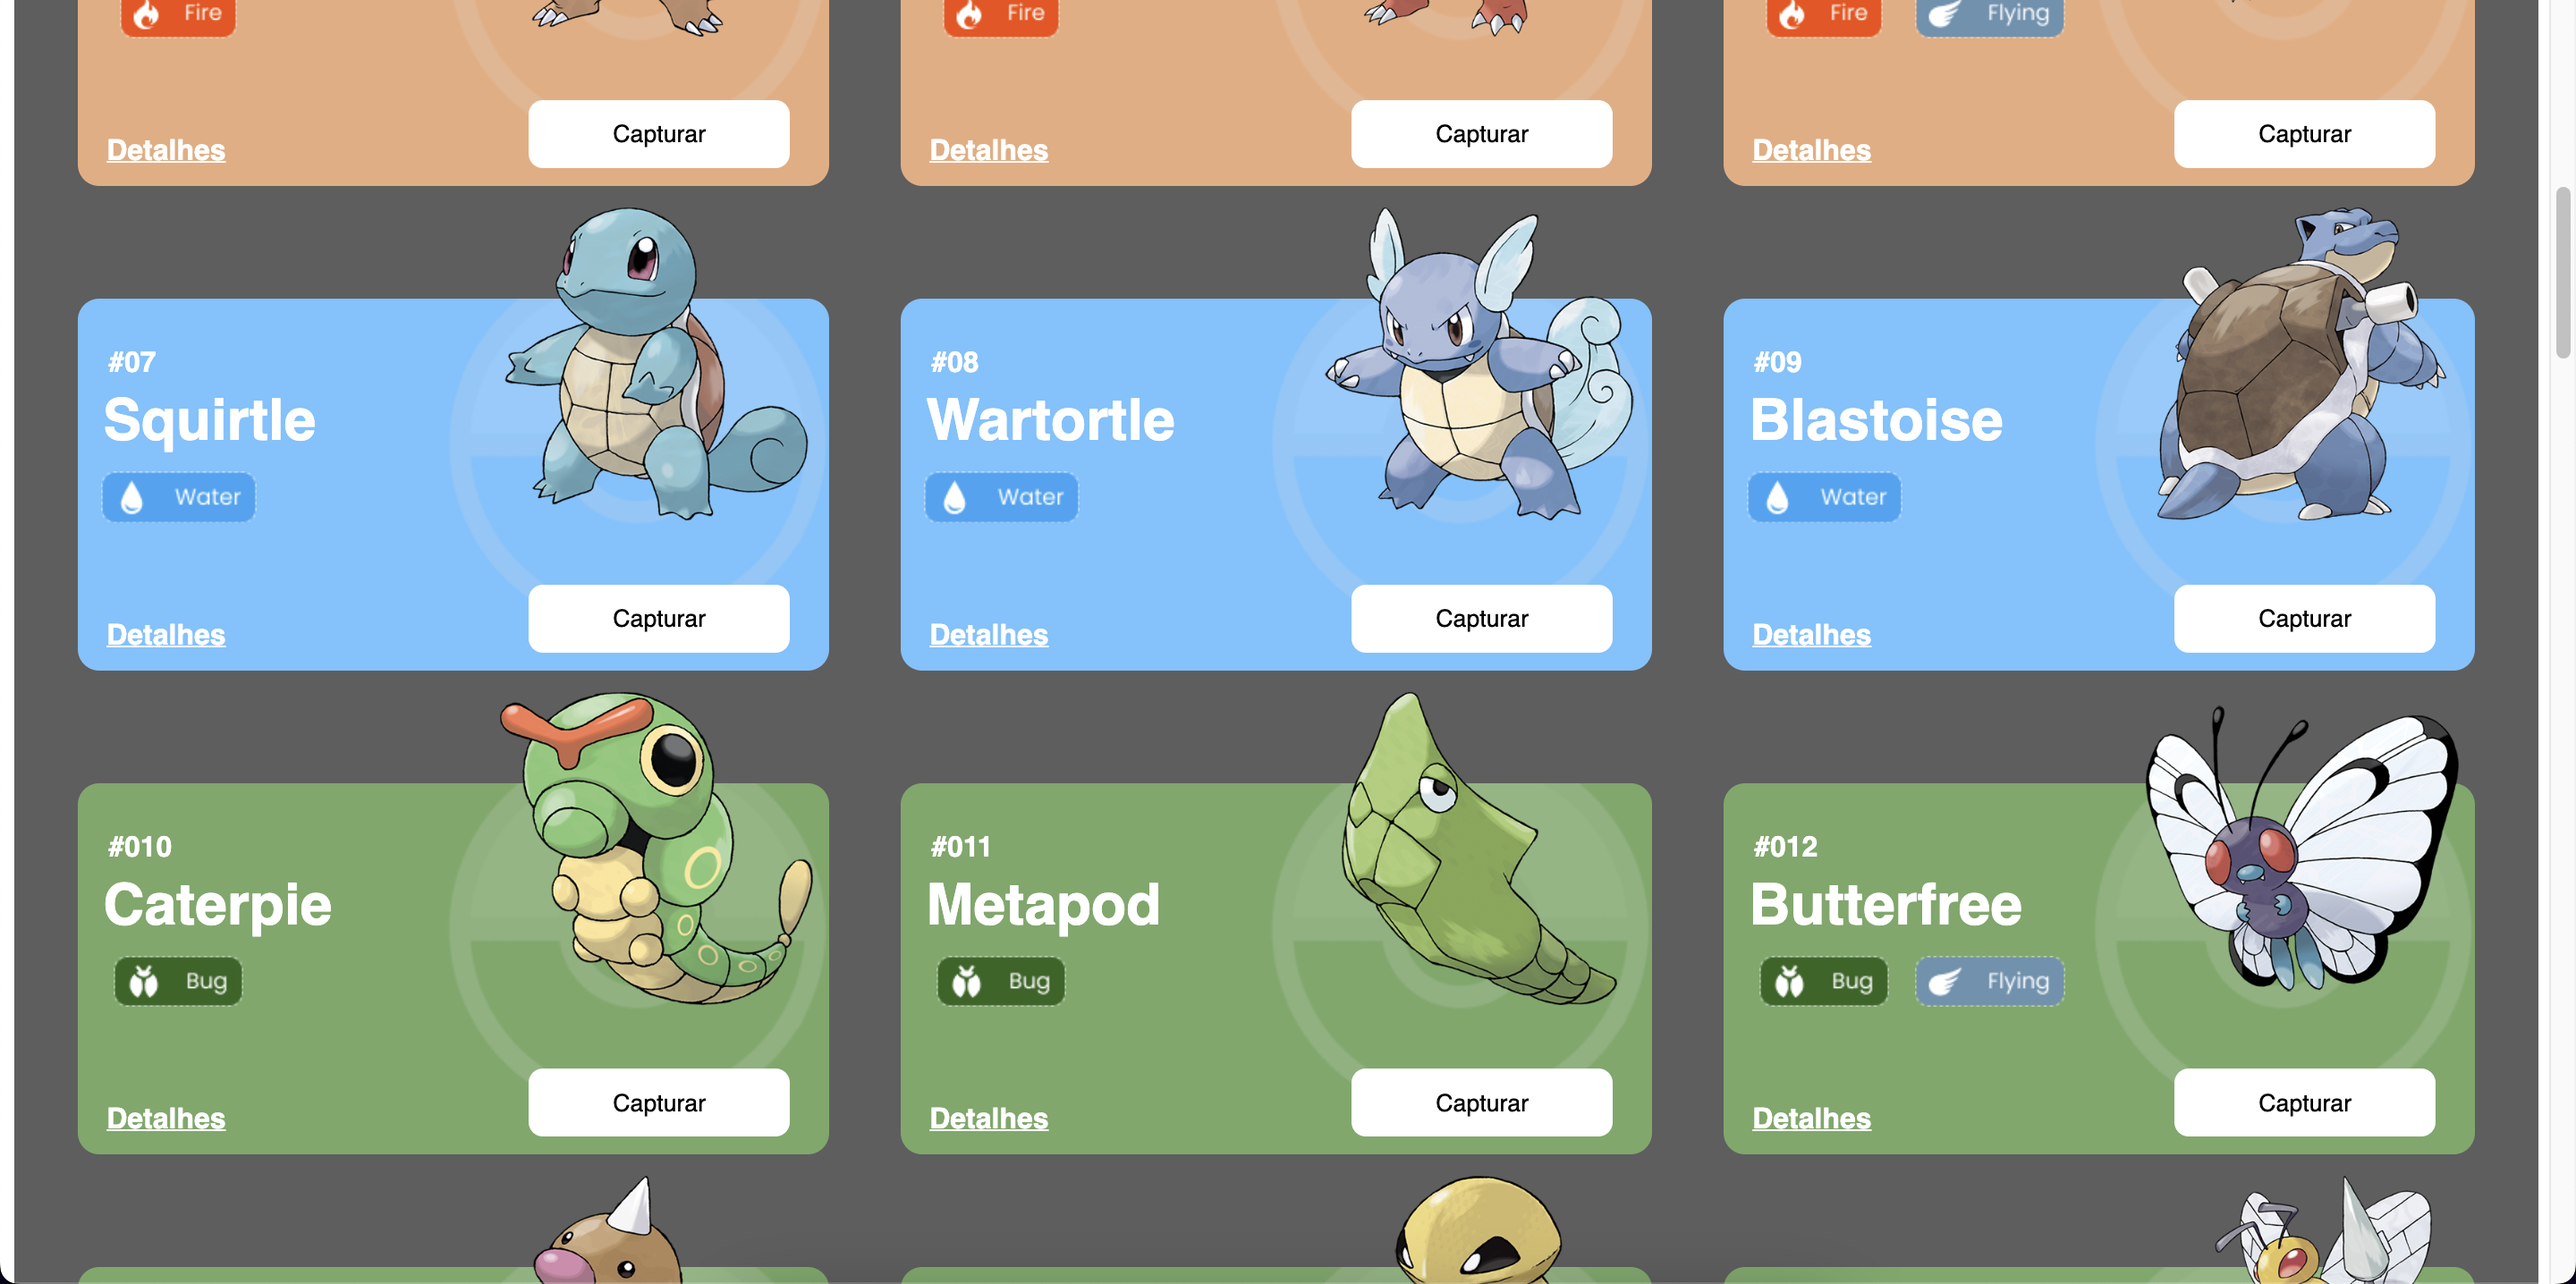
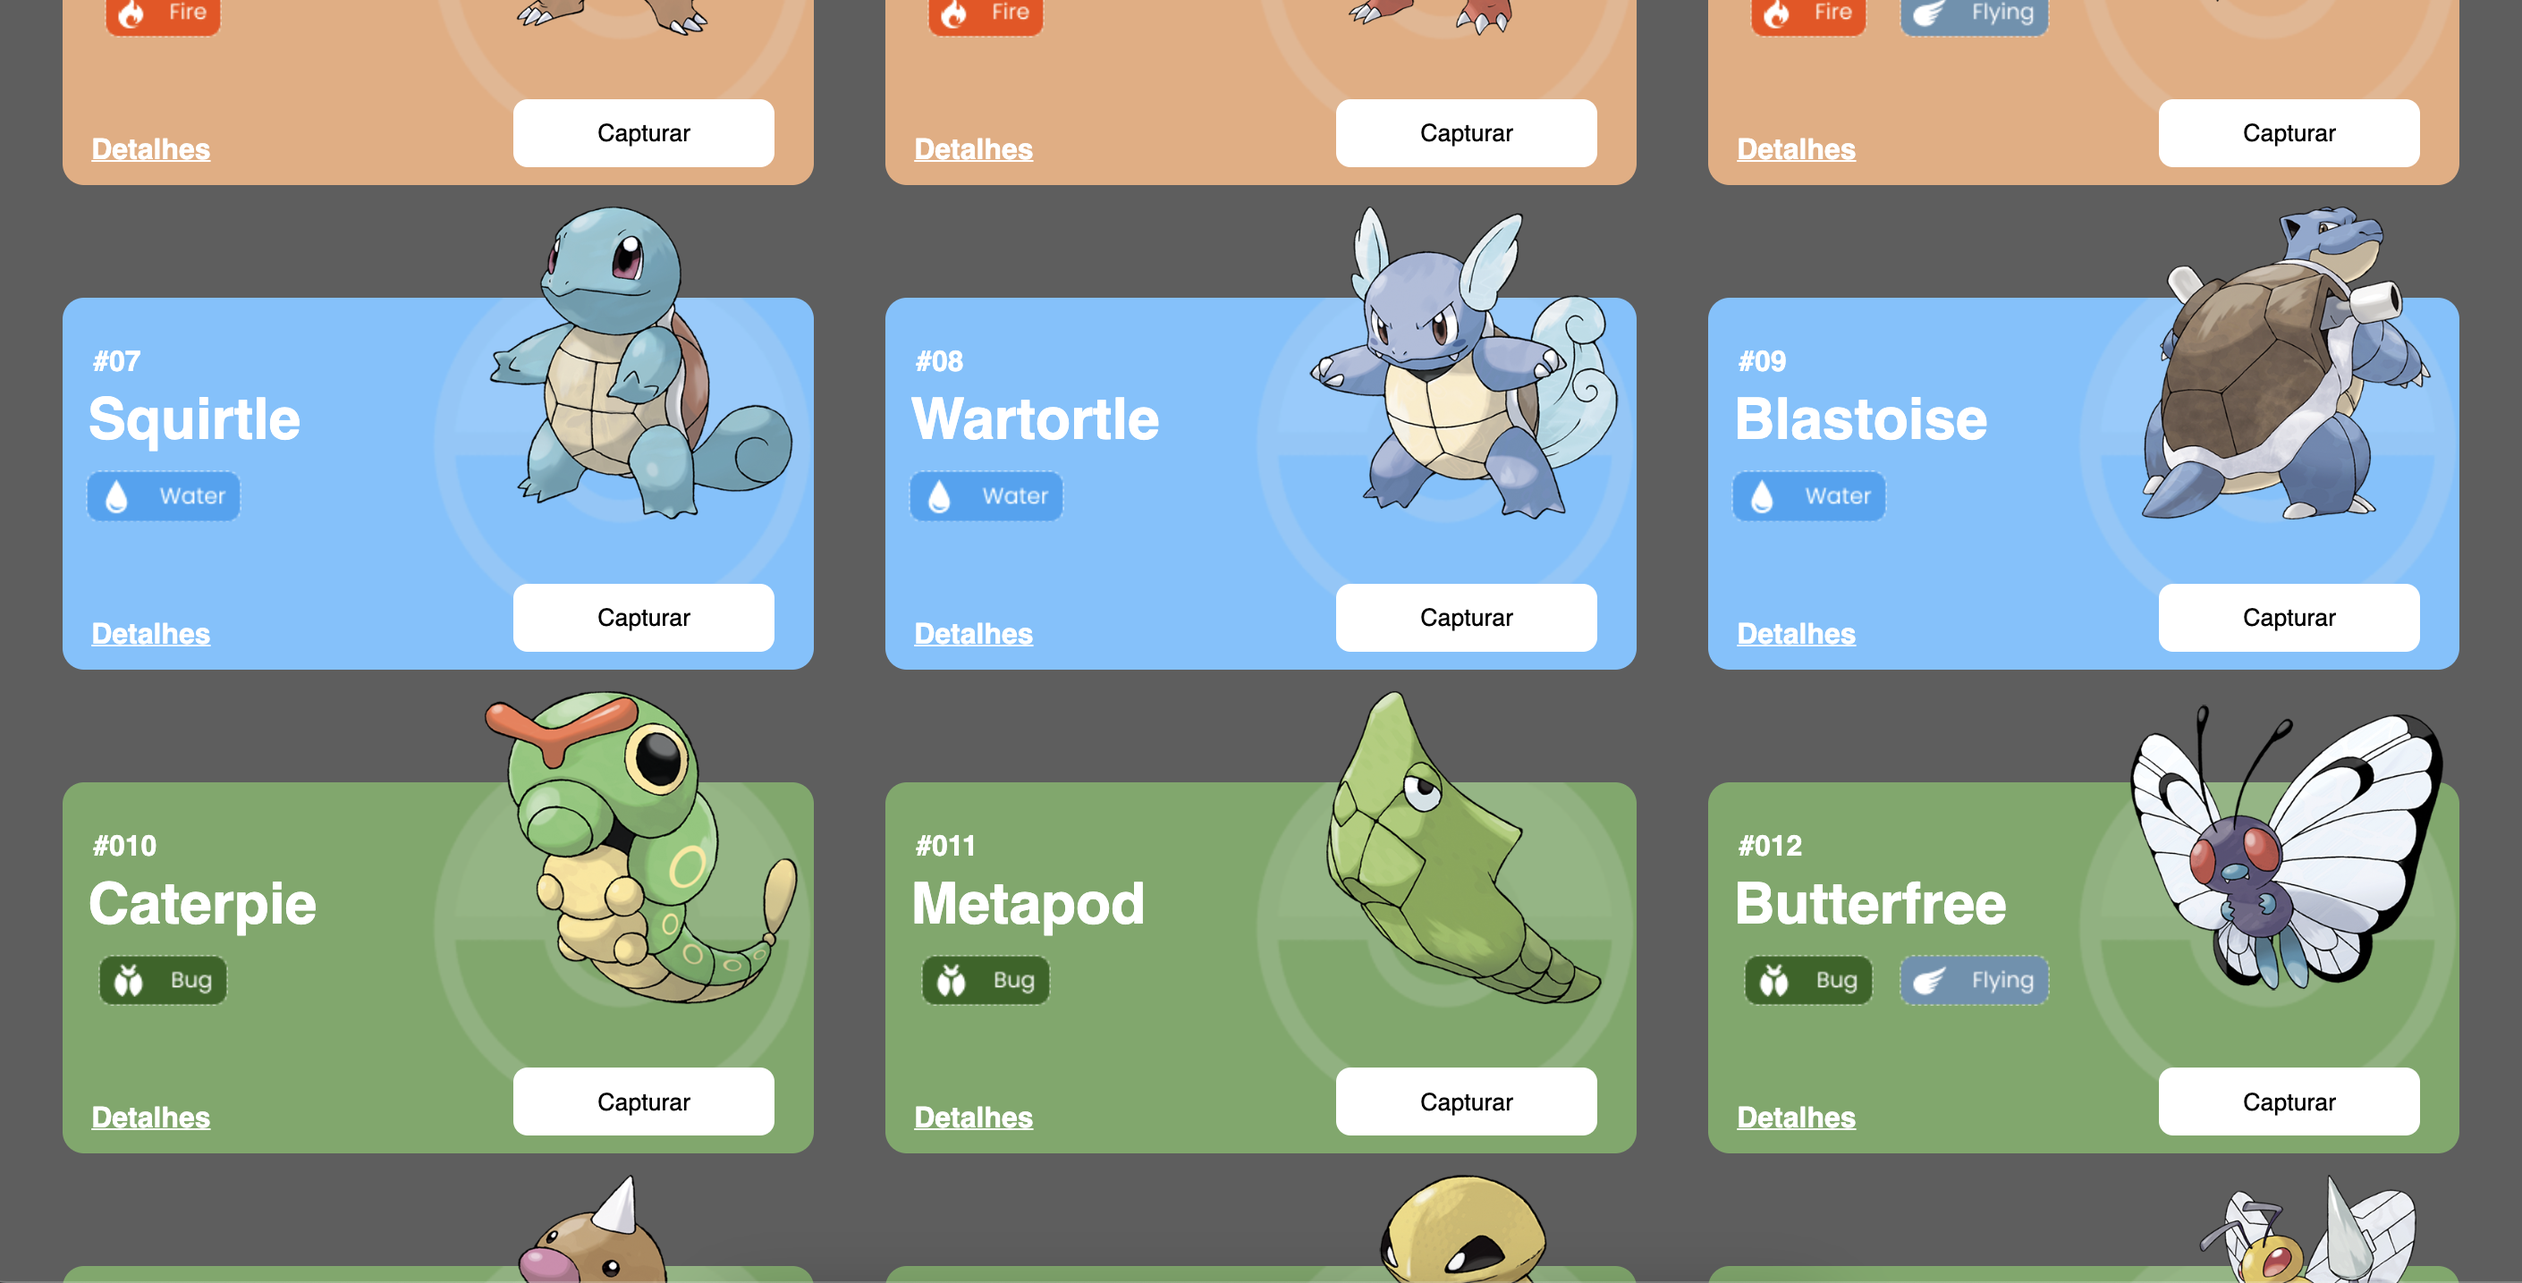
Update prints

diff --git a/pokedex/src/Components/PokemonCard/styled.js b/pokedex/src/Components/PokemonCard/styled.js
@@ -6,6 +6,17 @@ import flyingImage from '../../assets/pokemon-types/flying.png';
 import waterImage from '../../assets/pokemon-types/water.png';
 import bugImage from '../../assets/pokemon-types/bug.png';
 import normalImage from '../../assets/pokemon-types/normal.png';
+import eletricImage from '../../assets/pokemon-types/electric.png'
+import darkImage from '../../assets/pokemon-types/dark.png'
+import dragonImage from '../../assets/pokemon-types/dragon.png'
+import fairyImage from '../../assets/pokemon-types/fairy.png'
+import fightingImage from '../../assets/pokemon-types/fighting.png'
+import ghostImage from '../../assets/pokemon-types/ghost.png'
+import groundImage from '../../assets/pokemon-types/ground.png'
+import iceImage from '../../assets/pokemon-types/ice.png'
+import psychicImage from '../../assets/pokemon-types/psychic.png'
+import rockImage from '../../assets/pokemon-types/rock.png'
+import steelImage from '../../assets/pokemon-types/water.png'
 
 const typeBackgrounds = {
   grass: `url(${grassImage})`,
@@ -15,7 +26,19 @@ const typeBackgrounds = {
   water: `url(${waterImage})`,
   bug: `url(${bugImage})`,
   normal: `url(${normalImage})`,
+  eletric: `url(${eletricImage})`,
+  dark: `url(${darkImage})`,
+  dragon: `url(${dragonImage})`,
+  fairy: `url(${fairyImage})`,
+  fighting: `url(${fightingImage})`,
+  ghost: `url(${ghostImage})`,
+  ground: `url(${groundImage})`,
+  ice: `url(${iceImage})`,
+  psychic: `url(${psychicImage})`,
+  rock: `url(${rockImage})`,
+  steel: `url(${steelImage})`,
 };
+
 
 
 export const Container = styled.div`

diff --git a/pokedex/src/Pages/PokedexPage/styled.js b/pokedex/src/Pages/PokedexPage/styled.js
@@ -4,7 +4,7 @@ export const ContainerPokedex = styled.section`
   display: flex;
   flex-direction: column; 
   background-color: rgb(94, 94, 94);
-  min-height: 100vh; 
+  min-height: 100vh;
 `;
 
 export const TextHome = styled.h1`

diff --git a/pokedex/src/Pages/PokemonsListPage/styled.js b/pokedex/src/Pages/PokemonsListPage/styled.js
@@ -70,7 +70,7 @@ padding-top: 5vh;
 `
 export const SectionHome = styled.section`
 height: 100vh;
-width: 98vw;
+width: 100%;
 background-color: rgb(94, 94, 94) ;
 `
 
